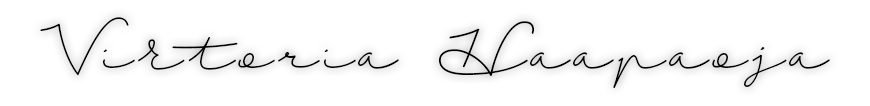
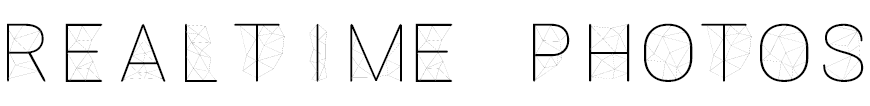
Fixed layout for website and TDD for future tests

Changed region(s): [[0.0, 0.1698, 0.9931, 0.8208], [0.2793, 0.3113, 0.3103, 0.3396]]

diff --git a/public/css/style.css b/public/css/style.css
@@ -1,5 +1,4 @@
 @import url('https://fonts.googleapis.com/css?family=EB+Garamond');
-@import url('https://fonts.googleapis.com/css?family=Lora');
 
 html {
     background-color: #fff;
@@ -15,7 +14,7 @@ body {
     background-color: #fff;
     margin: 0 auto;
     font-size: 16px;
-    font-family: "Lora";
+    font-family: "Segoe UI";
     padding: 1em;
 }
 
@@ -30,13 +29,21 @@ body {
 
 img {
     max-width: 100%;
-    display: block;
+}
+
+.site-header {
+    position: relative;
+    display: inline-block;
+    margin-bottom: 1em;
+}
+
+.site-header img {
+    margin-left: 2em;
 }
 
 .site-navbar {
+    background-color: #C1272D;
     text-transform: uppercase;
-    border-top: solid 1px grey;
-    border-bottom: solid 1px grey;
     font-family: "EB Garamond";
 }
 
@@ -44,7 +51,13 @@ h1,
 h2,
 h3,
 h4 {
-    font-family: "Lora";
+    font-family: "EB Garamond";
+}
+
+h1 {
+    text-transform: uppercase;
+    font-size: 28px;
+    border-bottom: solid 1px #C1272D;
 }
 
 ul li {
@@ -56,7 +69,7 @@ ul li {
     text-decoration: none;
     margin: 10px;
     font-size: 30px;
-    color: black;
+    color: #fff;
     opacity: 0.6;
 }
 
@@ -73,12 +86,13 @@ ul li {
 }
 
 .main {
-    border-left: solid 1px grey;
-    border-right: solid 1px grey;
+    /*border: solid 1px grey;*/
+    background-color: #f1f1f1;
     margin: 0 auto;
     padding-left: 1.5em;
     padding-right: 1.5em;
-    padding-bottom: 0.5em;
+    padding-bottom: 1.5em;
+    padding-top: 0.5em;
 }
 
 .main img {
@@ -96,23 +110,8 @@ img[src$="figcenter"] {
     margin: auto;
 }
 
-code {
-    background-color: #f1f1f1;
-}
-
 .main a {
     text-decoration: none;
-}
-
-.main blockquote {
-    font-style: italic;
-    color: #444;
-    border-left: solid 0.25em #bababa;
-    padding-left: 0.8em;
-}
-
-.text-border {
-    border: solid 1px #f1f1f1
 }
 
 .main a.link {
@@ -131,8 +130,6 @@ code {
 }
 
 .site-footer {
-    border-top: solid 1px grey;
-    margin-top: 1.3em;
     text-align: center;
     padding-top: 1em;
     margin-bottom: 2em;

diff --git a/index.js b/index.js
@@ -18,21 +18,21 @@ if (app.get('env') === 'development') {
 // Add a route
 app.get("/", (req, res) => {
     res.render("home", {
-        title: "Home",
+        title: "Home - RealTime Photos",
         urlPath: req.path
     });
 });
 
 app.get("/profile", (req, res) => {
     res.render("profile", {
-        title: "Profile",
+        title: "Profile - RealTime Photos",
         urlPath: req.path
     });
 });
 
 app.get("/discover", (req, res) => {
     res.render("discover", {
-        title: "Discover",
+        title: "Discover - RealTime Photos",
         urlPath: req.path
     });
 });

diff --git a/README.md b/README.md
@@ -1,4 +1,4 @@
-# Real Time Photos
+# RealTime Photos
 ## Repo för min app.
 
 ### Hemsida
@@ -8,7 +8,7 @@
 `node.exe` inte tas bort automatiskt.
 4. Öppna hemsidan under `localhost:1550`.
 
-<!-- ### Docker
+### Docker
 **Förutsatt att du har docker och vet hur det används**
 1. Se till att `docker pull node` är gjort, så imagen node finns tillgänglig.
 2. Kör `docker-compose up -d` för att starta containers för node 6, 7 och 8.
@@ -17,4 +17,4 @@
     * 8008
     * 8007
     * 8006
-5. Kika runt på min fina sida! -->
+5. Kika runt på min fina sida!
